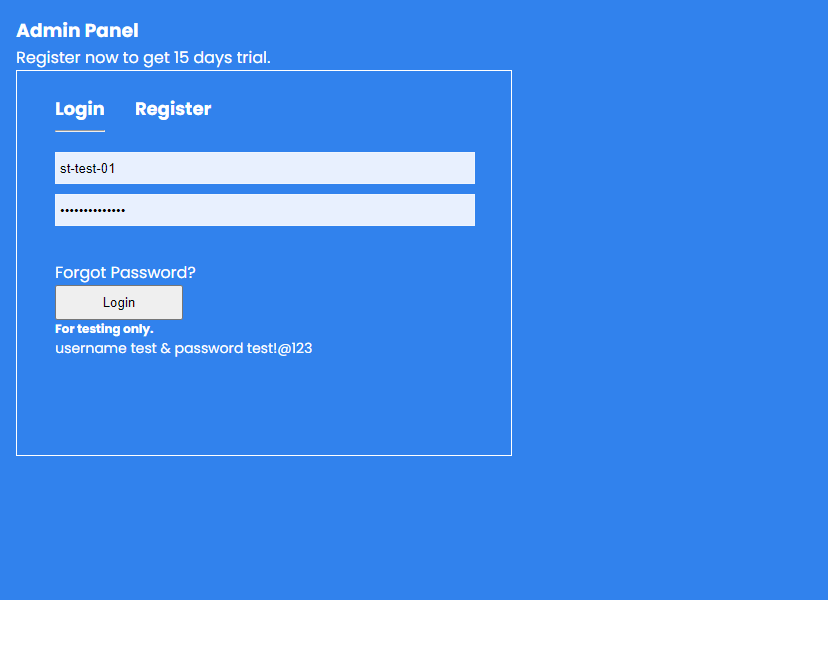
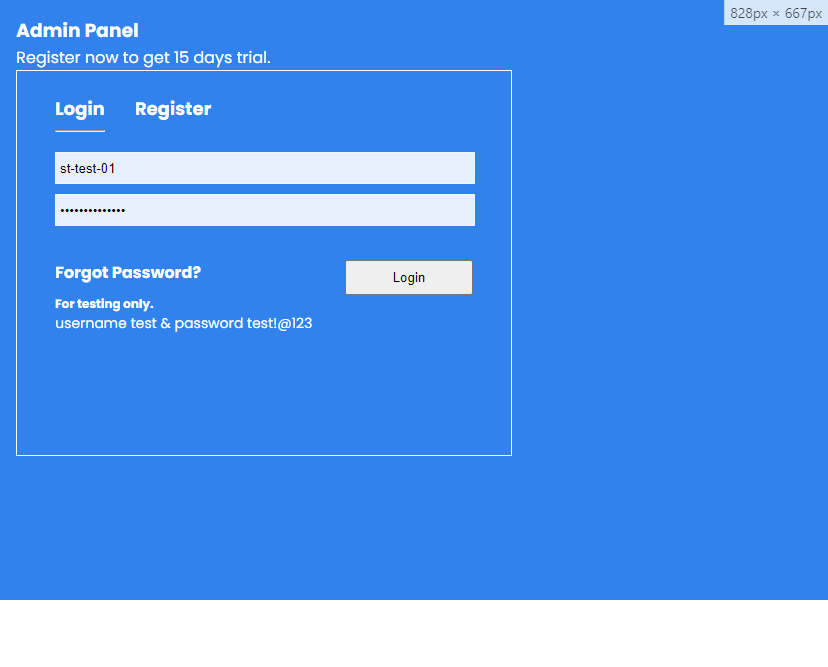
style: buttons container for Login styled

Changed region(s): [[0.0604, 0.3898, 0.3925, 0.5397], [0.3925, 0.3898, 0.5737, 0.4498], [0.8756, 0.0, 1.0, 0.06]]

diff --git a/src/features/Home/_components/Intro/Form/_components/Login/Login.tsx b/src/features/Home/_components/Intro/Form/_components/Login/Login.tsx
@@ -91,8 +91,8 @@ const Login: FC<ILoginProps> = (props) => {
           />
         )}
       </div>
-      <div className="buttons-container">
-        <p className={styles['btn-forgot']} onClick={handleForgotPassword} >
+      <div className={styles['buttons-container']}>
+        <p onClick={handleForgotPassword} >
           Forgot Password?
         </p>
         <button onClick={handleLogin}>

diff --git a/src/features/Home/_components/Intro/Form/_components/Login/login.module.css b/src/features/Home/_components/Intro/Form/_components/Login/login.module.css
@@ -2,8 +2,19 @@
 
 }
 
-.error-banner-container {
+.login .error-banner-container {
   height: 1.5rem;
+}
+
+.login .buttons-container {
+  display: flex;
+  justify-content: space-between;
+}
+
+.login .buttons-container p {
+  font-weight: bold;
+  cursor: pointer;
+  user-select: none;
 }
 
 .login button {
